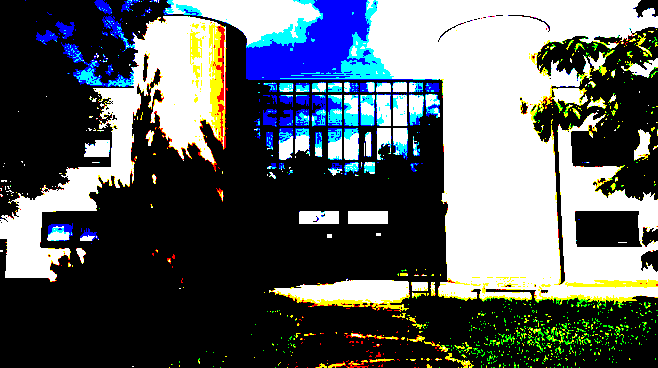
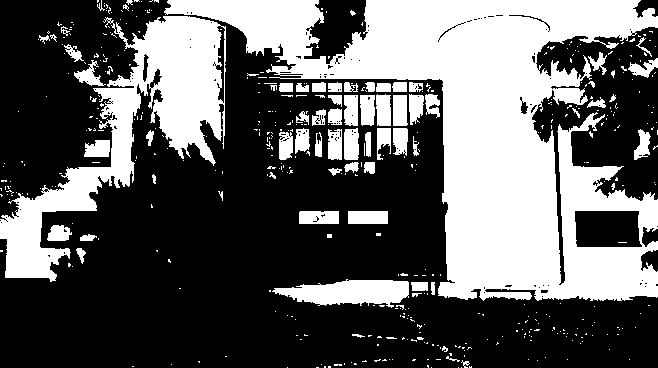
ajout de la fonction de tramage aléatoire

diff --git a/ditherpunk/src/main.rs b/ditherpunk/src/main.rs
@@ -1,6 +1,7 @@
 use argh::FromArgs;
 use image::io::Reader as ImageReader;
 use image::{DynamicImage, ImageError};
+use rand::Rng;
 
 #[derive(Debug, Clone, PartialEq, FromArgs)]
 /// Convertit une image en monochrome ou vers une palette réduite de couleurs.
@@ -126,6 +127,22 @@ fn apply_threshold_seuillage(rgb_image: &mut image::RgbImage, couleur1: image::R
         .unwrap();
 }
 
+fn tramage_aleatoire(rgb_image: &mut image::RgbImage) {
+    let mut rng = rand::thread_rng();
+    let mut random = 0;
+    for (x, y, pixel) in rgb_image.enumerate_pixels_mut() {
+        random = rng.gen_range(0..255);
+        if get_luminance(pixel) > random as f32 {
+            *pixel = WHITE;
+        } else {
+            *pixel = BLACK;
+        }
+    }
+    rgb_image
+        .save_with_format("./output/output_tramage_aleatoire.png", image::ImageFormat::Png)
+        .unwrap();
+}
+
 fn main() -> Result<(), ImageError> {
     let args: DitherArgs = argh::from_env();
     let path_in = args.input;
@@ -202,6 +219,8 @@ fn main() -> Result<(), ImageError> {
             apply_distance_eucli(&mut rgb_image.clone(), palette[..opts.n_couleurs].to_vec());
         }
     }
+
+    tramage_aleatoire(&mut rgb_image.clone());
 
     Ok(())
 }

diff --git a/README.md b/README.md
@@ -103,3 +103,24 @@ cargo run ./img/image_iut.jpg -- palette --n-couleurs 8
 ```
 
 Nous obtenons le résultat suivant : ![image_palette](./ditherpunk/output/output_palette.png)
+
+## Question 11
+
+Nous avons implémenter le tramage aléatoire de la manière suivante :
+```rust
+fn tramage_aleatoire(rgb_image: &mut image::RgbImage) {
+    let mut rng = rand::thread_rng();
+    let mut random = 0;
+    for (x, y, pixel) in rgb_image.enumerate_pixels_mut() {
+        random = rng.gen_range(0..255);
+        if get_luminance(pixel) > random as f32 {
+            *pixel = WHITE;
+        } else {
+            *pixel = BLACK;
+        }
+    }
+    rgb_image
+        .save_with_format("./output/output_tramage_aleatoire.png", image::ImageFormat::Png)
+        .unwrap();
+}
+```
